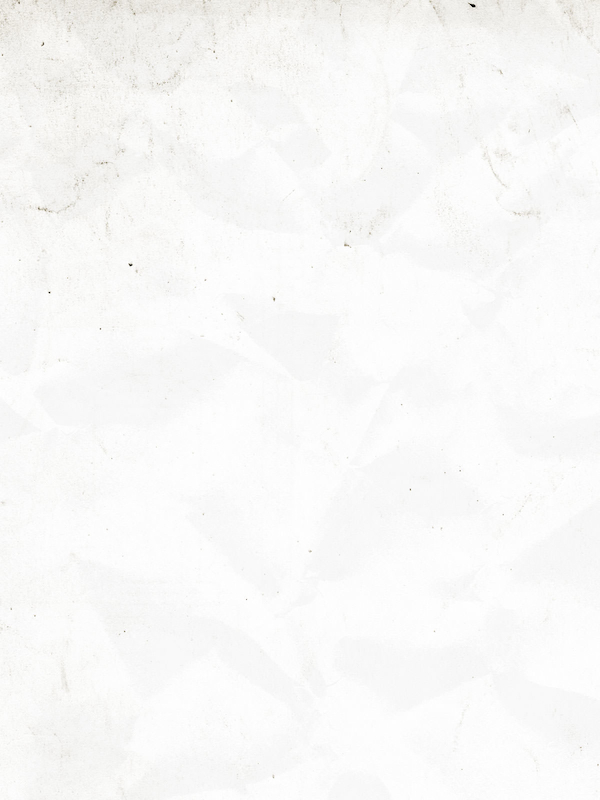
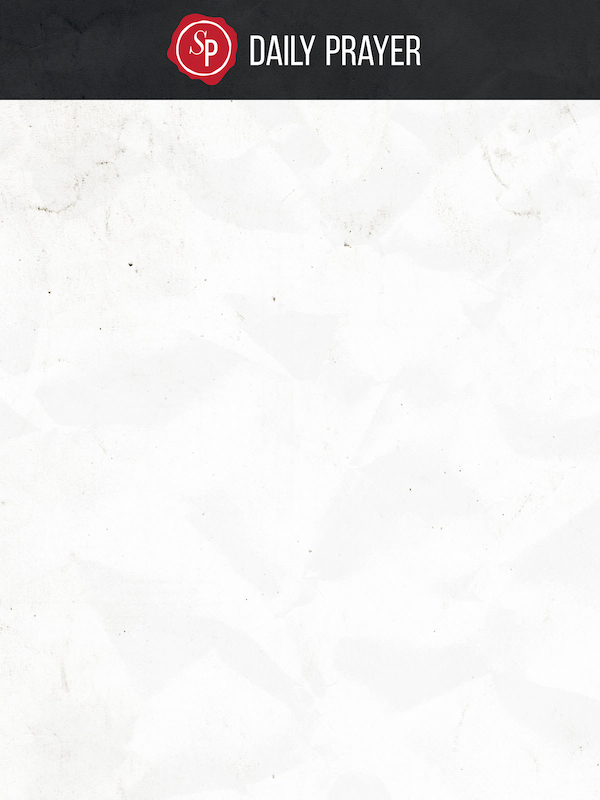
Merge header and bg

Changed region(s): [[0.0, 0.0, 1.0, 0.125]]

diff --git a/css/main.css b/css/main.css
@@ -15,8 +15,8 @@ body {
 header {
   width:100%;
   height:100px;
-  background: #28292B url('../img/header.jpg') center 0 no-repeat;
-  background-size:auto 100px;
+  background: #28292B url('../img/bg.jpg') center 0 no-repeat;
+  background-size:600px auto;
 }
 .day-nav{
   background:#aaa;
@@ -50,6 +50,7 @@ table td.nav{
   width:100%;
   margin:25px 0px 18px;
   background: url('../img/titles.png') center 1px no-repeat;
+  background-size:auto 150px;
 }
 #title-noon{
   background-position-y: -54px;
@@ -67,18 +68,12 @@ table td.nav{
 a.psalm{
   color:rgb(190,30,45);
 }
-
 @media (-webkit-min-device-pixel-ratio: 1.25),(min-resolution: 120dpi){ 
-  body {
-    background-image: url('../img/bg@2x.jpg');
-    background-size:600px auto;
-  }
+  body,
   header {
-    background-image: url('../img/header@2x.jpg');
-    background-size:auto 100px;
+    background-image: url('../img/bg@2x.jpg');
   }
   .title {
     background-image: url('../img/titles@2x.png');
-    background-size:auto 150px;
   }
 }
